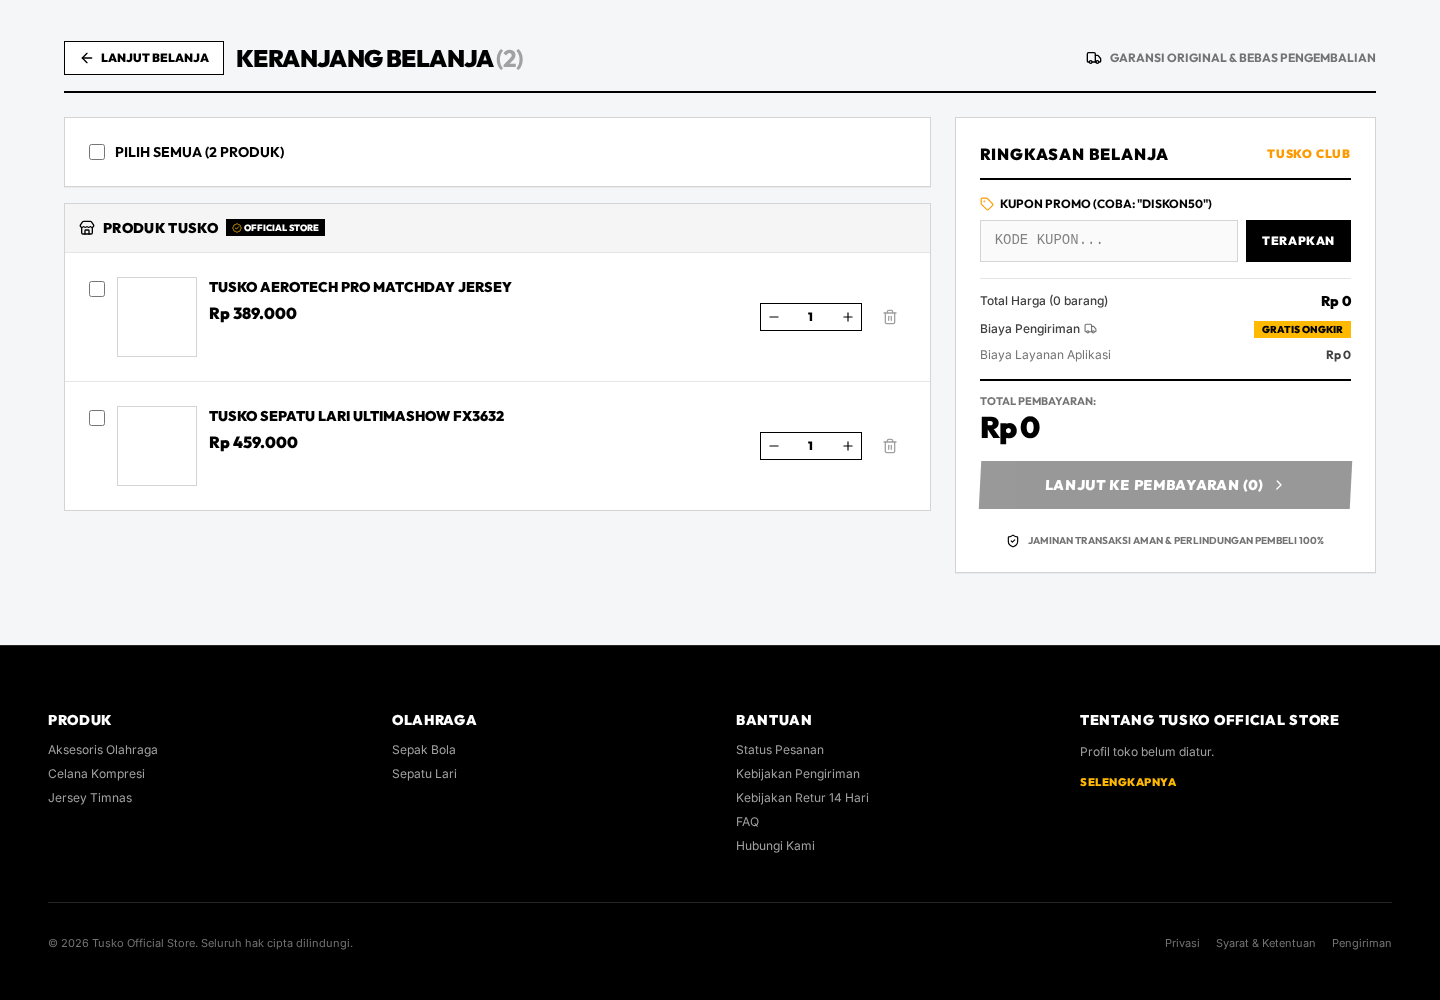
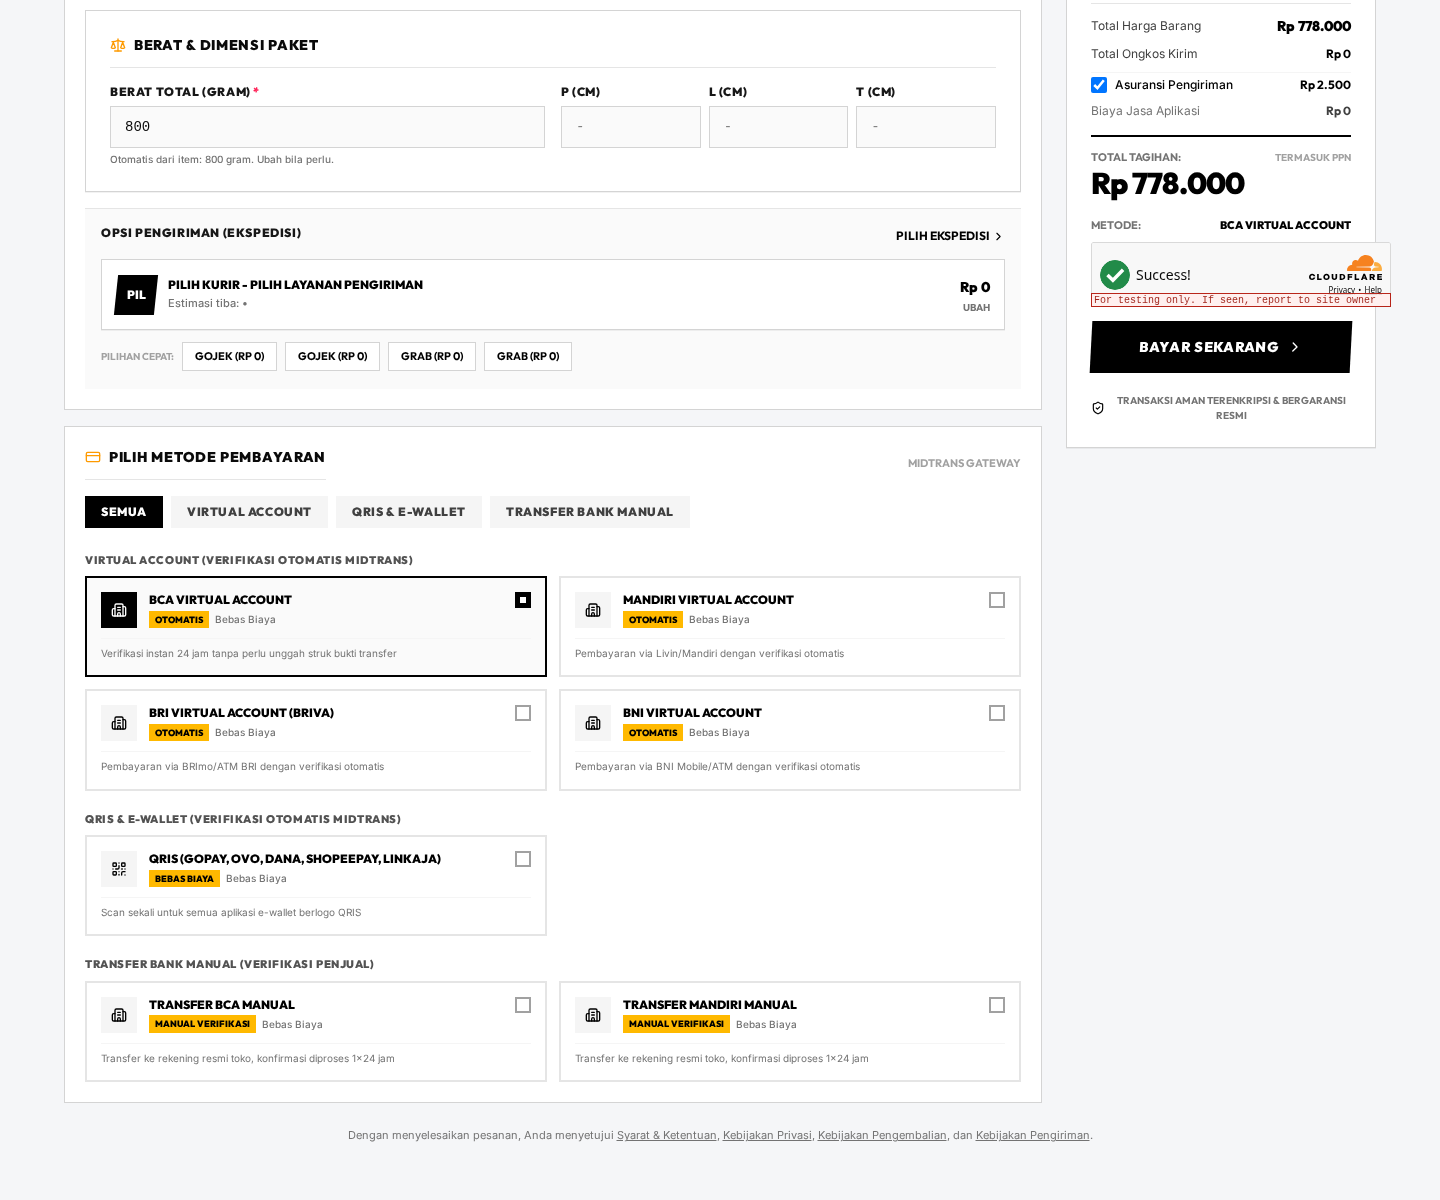
docs(P12): perbarui ke pembayaran Midtrans Core API (UI TUSKO, tanpa Snap)

diff --git a/dokumentasi/02-pelanggan/P12-pembayaran-midtrans.tex b/dokumentasi/02-pelanggan/P12-pembayaran-midtrans.tex
@@ -1,11 +1,13 @@
 % ============================================================
-% P12 — Pembayaran Midtrans Snap
+% P12 — Pembayaran Midtrans (Core API)
 % ============================================================
-\flowmeta{P12}{Pembayaran Midtrans Snap}{Pelanggan}
+\flowmeta{P12}{Pembayaran Midtrans}{Pelanggan}
 
 \begin{flowsection}{Tujuan}
-Membayar pesanan secara daring melalui gerbang pembayaran Midtrans Snap:
-Virtual Account, QRIS, e-Wallet, atau Kartu Kredit/Debit.
+Membayar pesanan secara daring melalui Midtrans \textbf{Core API} dengan
+antarmuka penuh milik TUSKO: Virtual Account dan QRIS/e-Wallet. Nomor Virtual
+Account / kode QR ditampilkan langsung pada halaman pesanan TUSKO (tanpa popup
+pihak ketiga).
 \end{flowsection}
 
 \begin{flowsection}{Prasyarat}
@@ -15,48 +17,41 @@ Midtrans telah diisi admin pada Pengaturan Sistem.
 
 \begin{flowsection}{Langkah Pembayaran}
 \begin{enumerate}
-  \item Pada checkout, pilih metode pembayaran (mis. \textbf{BCA Virtual Account},
-        \textbf{QRIS \& E-Wallet}, atau \textbf{Kartu Kredit/Debit}).
+  \item Pada checkout, pilih metode pembayaran Midtrans:
+        \textbf{Virtual Account} (BCA/Mandiri/BRI/BNI) atau \textbf{QRIS \& E-Wallet}.
   \item Klik \textbf{Bayar Sekarang}.
-  \item Popup \textbf{Midtrans Snap} muncul; ikuti instruksi sesuai metode.
-  \item Setelah pembayaran berhasil, Midtrans mengirim notifikasi (webhook) ke
-        backend dan status pesanan berubah menjadi \textbf{PAID}.
+  \item Sistem membuat transaksi melalui Midtrans Core API dan menampilkan
+        \textbf{nomor Virtual Account} atau \textbf{kode QR} pada halaman pesanan.
+  \item Pelanggan menyelesaikan pembayaran sesuai instruksi.
+  \item Midtrans mengirim notifikasi (webhook); backend memverifikasi
+        \texttt{signature\_key} lalu menandai pesanan \textbf{PAID}.
 \end{enumerate}
 \end{flowsection}
 
-\shot{gambar/pelanggan/p12-1.png}{Pemilihan metode pembayaran Midtrans pada halaman checkout}{fig:p12-1}
-
-\begin{flowsection}{Alur Teknis}
-\begin{enumerate}
-  \item Pelanggan menekan Bayar Sekarang.
-  \item Backend membuat order dan meminta Snap token ke Midtrans.
-  \item Popup Snap tampil untuk memilih kanal pembayaran.
-  \item Pelanggan menyelesaikan pembayaran.
-  \item Midtrans mengirim webhook ke backend.
-  \item Backend memverifikasi \texttt{signature\_key} (SHA-512), lalu menandai
-        order \textbf{PAID} (idempoten agar tidak dobel).
-\end{enumerate}
-\end{flowsection}
-
-\shot{gambar/pelanggan/p12-2.png}{Diagram alur pembayaran Midtrans Snap beserta verifikasi webhook}{fig:p12-2}
+\shot{gambar/pelanggan/p12-1.png}{Memilih metode pembayaran Midtrans (Virtual Account) pada checkout TUSKO}{fig:p12-1}
 
 \begin{flowsection}{Hasil yang Diharapkan}
-Order tercatat dan berstatus menunggu/terbayar sesuai hasil; pelanggan dapat
-memantau status di \textbf{Pesanan Saya} (P14).
+Halaman pesanan menampilkan nomor Virtual Account / kode QR beserta batas waktu
+pembayaran; setelah terbayar status berubah menjadi \textbf{PAID}. Seluruh
+tampilan instruksi berada pada UI TUSKO.
 \end{flowsection}
+
+\shot{gambar/pelanggan/p12-2.png}{Instruksi pembayaran Virtual Account ditampilkan pada halaman pesanan TUSKO}{fig:p12-2}
 
 \begin{flowsection}{Penanganan Error dan Kasus Khusus}
 \begin{itemize}
-  \item Popup tidak muncul $\rightarrow$ pastikan kredensial Midtrans \&  Snap URL benar.
-  \item Pembayaran kedaluwarsa $\rightarrow$ order tetap belum terbayar; dapat dibuat ulang.
+  \item Kredensial Midtrans belum diisi $\rightarrow$ muncul pesan kesalahan.
+  \item Pembayaran kedaluwarsa $\rightarrow$ pesanan belum terbayar; dapat dibuat ulang.
   \item Webhook gagal diverifikasi $\rightarrow$ status tidak berubah (aman).
 \end{itemize}
 \end{flowsection}
 
 \begin{flowsection}{Kaitan Modul}
-FE \texttt{CheckoutPage.jsx} (Snap), \texttt{checkoutService.js}. BE
-\texttt{PaymentController}, \texttt{MidtransWebhookController}. Tabel
-\texttt{payments}, \texttt{midtrans\_transactions}.
+FE \texttt{CheckoutPage.jsx}, \texttt{OrderSuccessPage.jsx}, \texttt{checkoutService.js}
+(\texttt{chargeOrder}). BE \texttt{CheckoutController@charge},
+\texttt{MidtransService}, \texttt{MidtransWebhookController}. Rute
+\texttt{POST /api/orders/\{id\}/charge}. Tabel \texttt{payments},
+\texttt{midtrans\_transactions}.
 \end{flowsection}
 
 \docver{v1.0}{Sep 2026}
